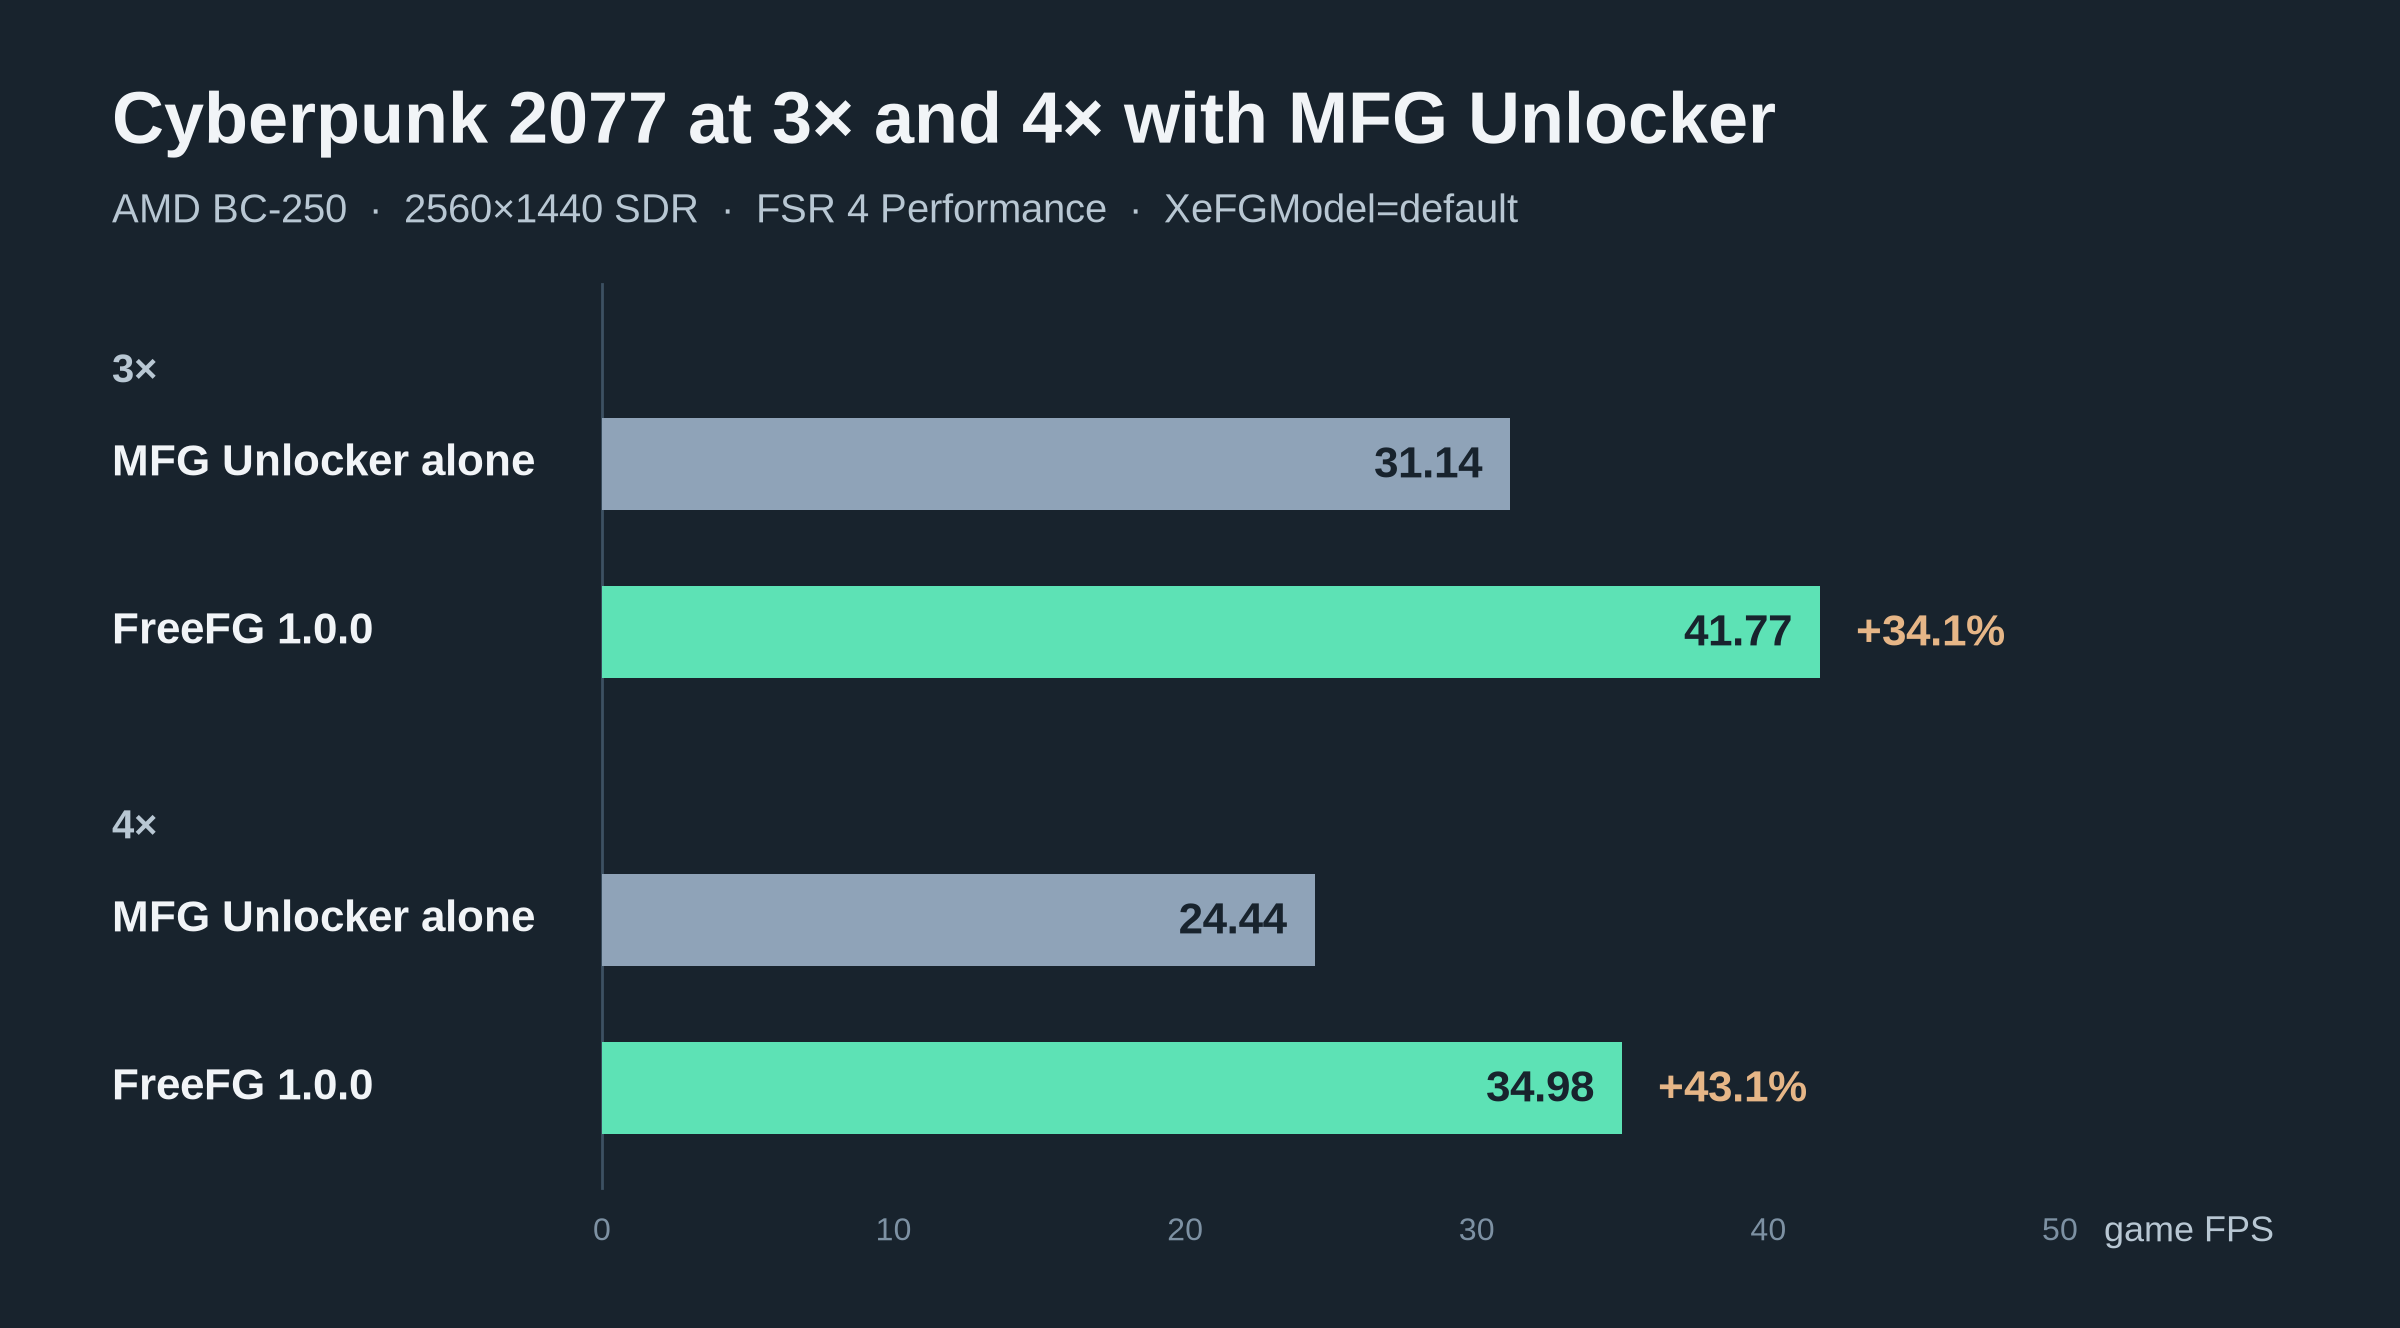
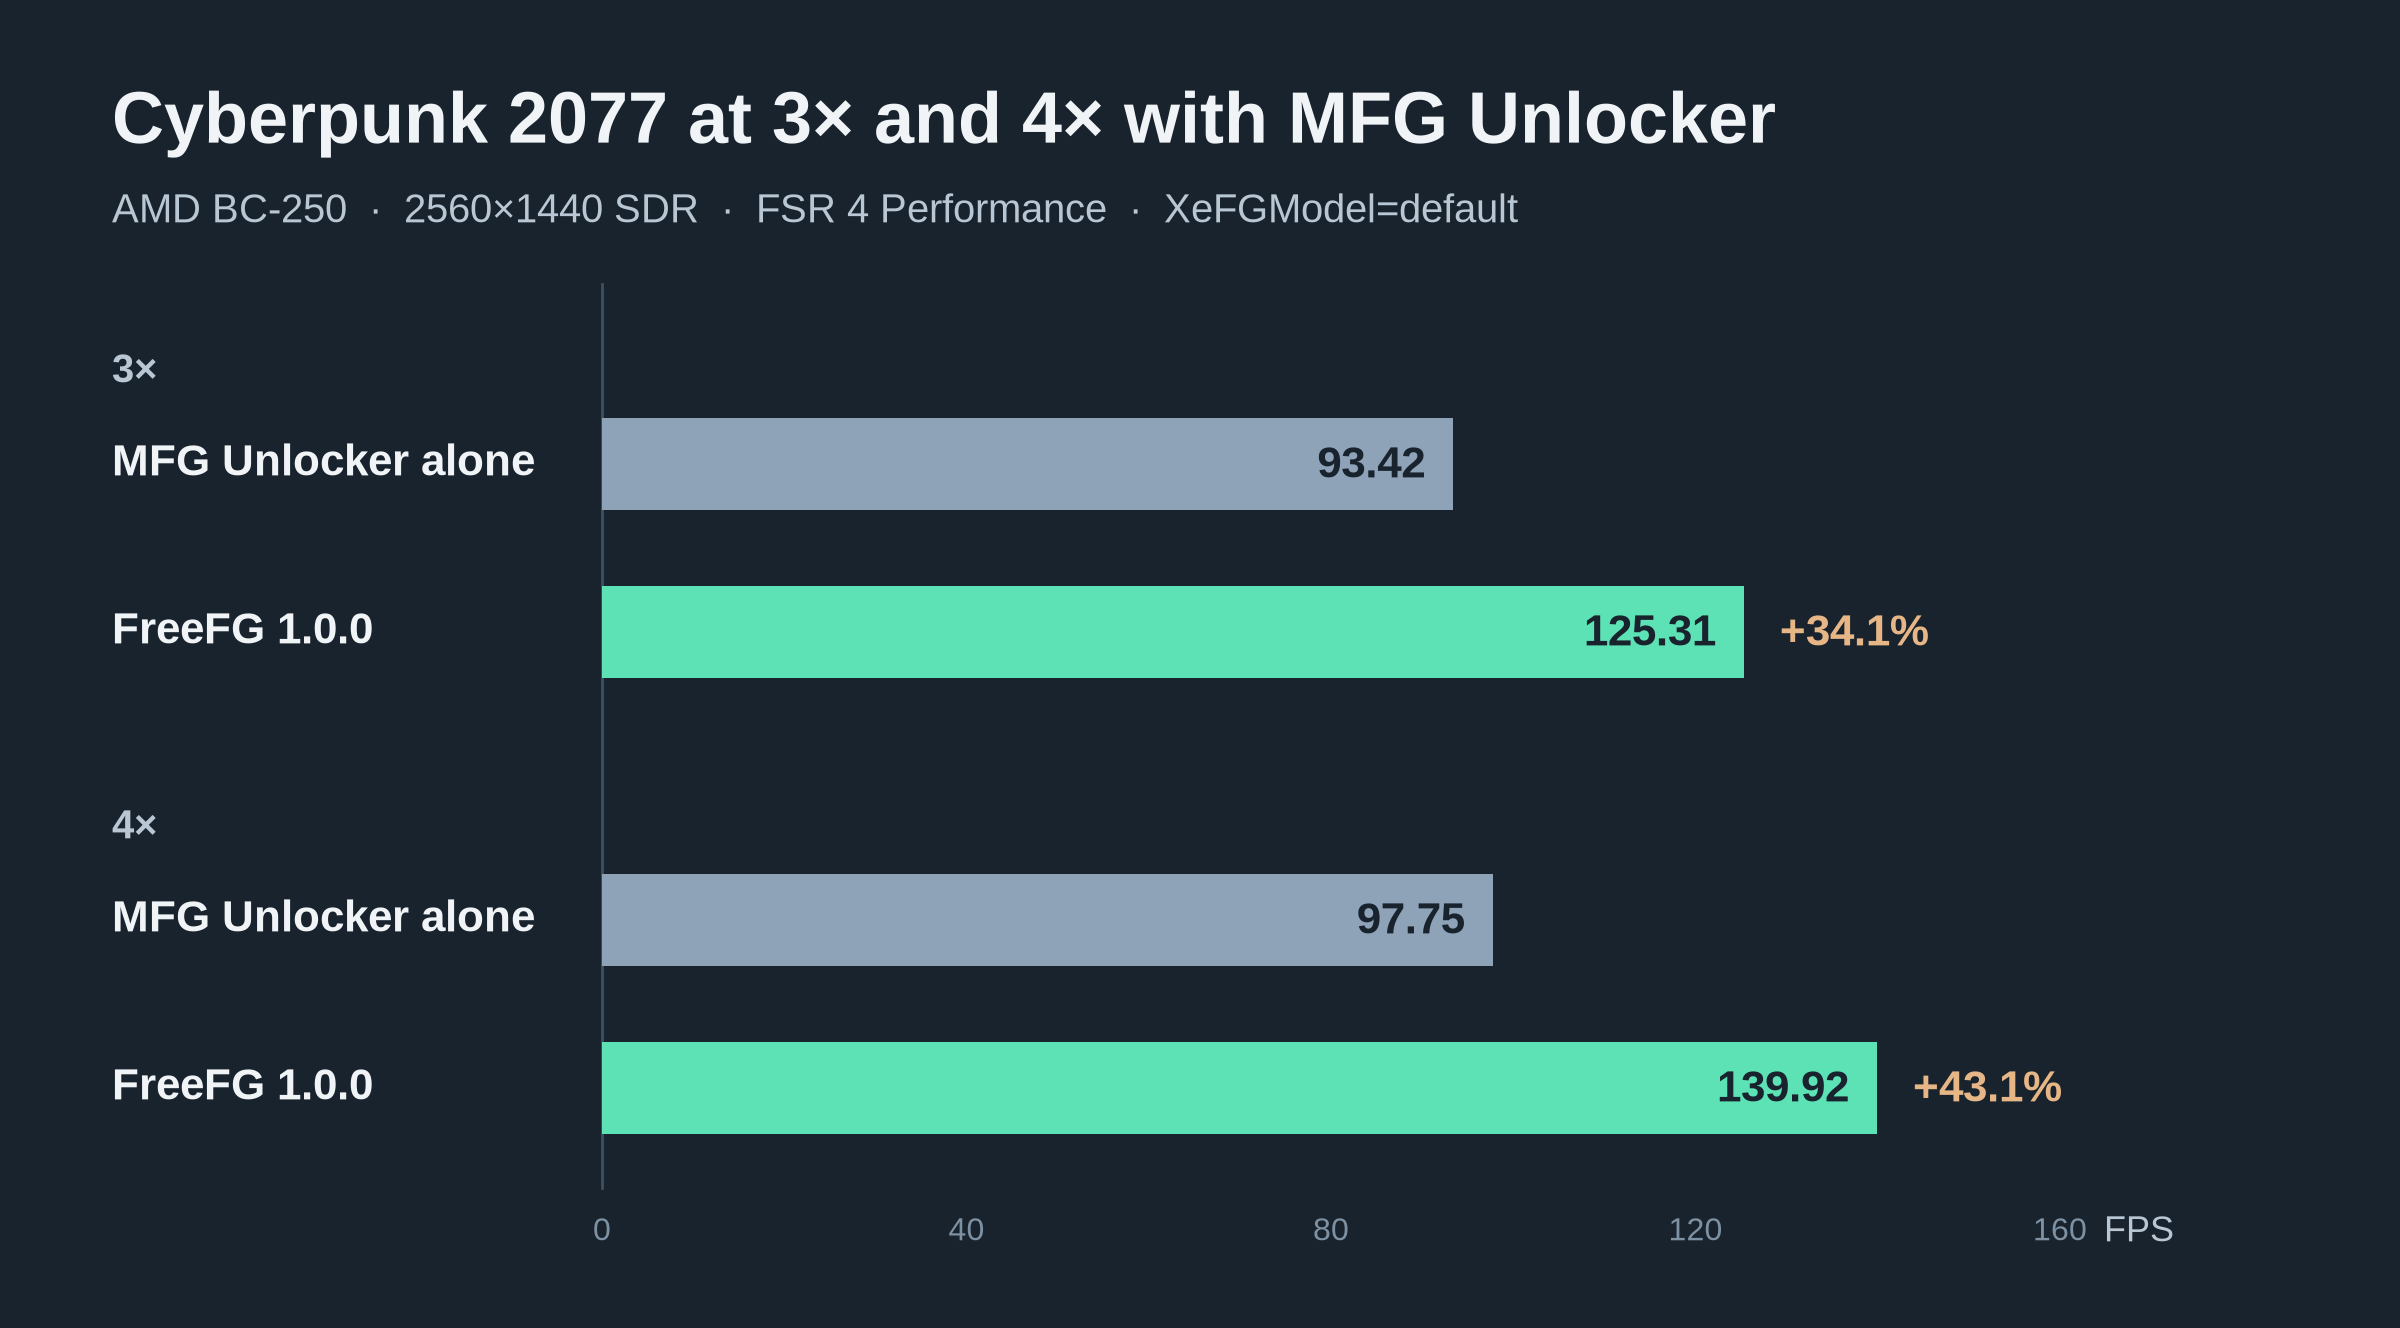
Docs: 3x/4x figure shows frames per second shown, like the 2x figure

diff --git a/README.md b/README.md
@@ -116,10 +116,12 @@ For speed, use `XeFGModel=default` with FreeFG: in Cyberpunk 2077 the game ran 2
 on MFG Unlocker's own model, because FreeFG's shaders then run the whole network. With `default`, the picture at 3×
 and 4× is unchecked (table above).
 
-![Cyberpunk 2077 game frame rate with MFG Unlocker and XeFGModel=default on an AMD BC-250 (2560×1440 SDR, FSR 4 Performance): at 3×, MFG Unlocker alone 31.14 FPS and FreeFG 1.0.0 41.77 FPS (+34.1%); at 4×, 24.44 and 34.98 FPS (+43.1%).](docs/assets/mfg-3x4x-fps.svg)
+![Cyberpunk 2077 frames shown per second with MFG Unlocker and XeFGModel=default on an AMD BC-250 (2560×1440 SDR, FSR 4 Performance): at 3×, MFG Unlocker alone 93.42 FPS and FreeFG 1.0.0 125.31 FPS (+34.1%); at 4×, 97.75 and 139.92 FPS (+43.1%).](docs/assets/mfg-3x4x-fps.svg)
 
-FreeFG against MFG Unlocker alone, both with `XeFGModel=default`. Headless at 240 Hz, pacing off, 1–2 runs per arm;
-same files in 1.0.1 ([details](packaging/public/MEASUREMENTS.md#3-and-4-with-mfg-unlocker)).
+FreeFG against MFG Unlocker alone, both with `XeFGModel=default`. Frames shown per second, generated frames
+included, as in the 2× figure; the game itself renders 31 and 42 FPS at 3×. Headless at 240 Hz, so nothing was capped;
+a 120 Hz display shows at most 120. Pacing off, 1–2 runs per arm; same files in 1.0.1
+([details](packaging/public/MEASUREMENTS.md#3-and-4-with-mfg-unlocker)).
 
 - With a game's own XeSS frame generation, FreeFG accelerates nothing while MFG Unlocker is loaded
   ([details](packaging/public/ARCHITECTURE.md#optiscalers-contexts-only)).

diff --git a/packaging/public/README.md b/packaging/public/README.md
@@ -115,10 +115,12 @@ For speed, use `XeFGModel=default` with FreeFG: in Cyberpunk 2077 the game ran 2
 on MFG Unlocker's own model, because FreeFG's shaders then run the whole network. With `default`, the picture at 3×
 and 4× is unchecked (table above).
 
-![Cyberpunk 2077 game frame rate with MFG Unlocker and XeFGModel=default on an AMD BC-250 (2560×1440 SDR, FSR 4 Performance): at 3×, MFG Unlocker alone 31.14 FPS and FreeFG 1.0.0 41.77 FPS (+34.1%); at 4×, 24.44 and 34.98 FPS (+43.1%).](../../docs/assets/mfg-3x4x-fps.svg)
+![Cyberpunk 2077 frames shown per second with MFG Unlocker and XeFGModel=default on an AMD BC-250 (2560×1440 SDR, FSR 4 Performance): at 3×, MFG Unlocker alone 93.42 FPS and FreeFG 1.0.0 125.31 FPS (+34.1%); at 4×, 97.75 and 139.92 FPS (+43.1%).](../../docs/assets/mfg-3x4x-fps.svg)
 
-FreeFG against MFG Unlocker alone, both with `XeFGModel=default`. Headless at 240 Hz, pacing off, 1–2 runs per arm;
-same files in 1.0.1 ([details](MEASUREMENTS.md#3-and-4-with-mfg-unlocker)).
+FreeFG against MFG Unlocker alone, both with `XeFGModel=default`. Frames shown per second, generated frames
+included, as in the 2× figure; the game itself renders 31 and 42 FPS at 3×. Headless at 240 Hz, so nothing was capped;
+a 120 Hz display shows at most 120. Pacing off, 1–2 runs per arm; same files in 1.0.1
+([details](MEASUREMENTS.md#3-and-4-with-mfg-unlocker)).
 
 - With a game's own XeSS frame generation, FreeFG accelerates nothing while MFG Unlocker is loaded
   ([details](ARCHITECTURE.md#optiscalers-contexts-only)).

diff --git a/packaging/public/MEASUREMENTS.md b/packaging/public/MEASUREMENTS.md
@@ -150,9 +150,10 @@ Results:
 - Every run at a fixed frame count had 3 or 4 frames per present as set, no `FAIL` line and no GPU error in the kernel
   log; the warm-ups were within 0.3% of the measured runs.
 
-![Cyberpunk 2077 game frame rate with MFG Unlocker and XeFGModel=default on an AMD BC-250 (2560×1440 SDR, FSR 4 Performance): at 3×, MFG Unlocker alone 31.14 FPS and FreeFG 1.0.0 41.77 FPS (+34.1%); at 4×, 24.44 and 34.98 FPS (+43.1%).](../../docs/assets/mfg-3x4x-fps.svg)
+![Cyberpunk 2077 frames shown per second with MFG Unlocker and XeFGModel=default on an AMD BC-250 (2560×1440 SDR, FSR 4 Performance): at 3×, MFG Unlocker alone 93.42 FPS and FreeFG 1.0.0 125.31 FPS (+34.1%); at 4×, 97.75 and 139.92 FPS (+43.1%).](../../docs/assets/mfg-3x4x-fps.svg)
 
-Headless at 240 Hz, SDR, pacing off; 2 runs per arm at 3×, 1 at 4×.
+Frames shown per second (frames per present × game FPS), as in the 2× figure. Headless at 240 Hz, SDR, pacing off;
+2 runs per arm at 3×, 1 at 4×.
 
 HDR10, FreeFG with `default`, one run each after a warm-up (MFG Unlocker alone was not run in HDR10, so there is no
 HDR10 gain):
